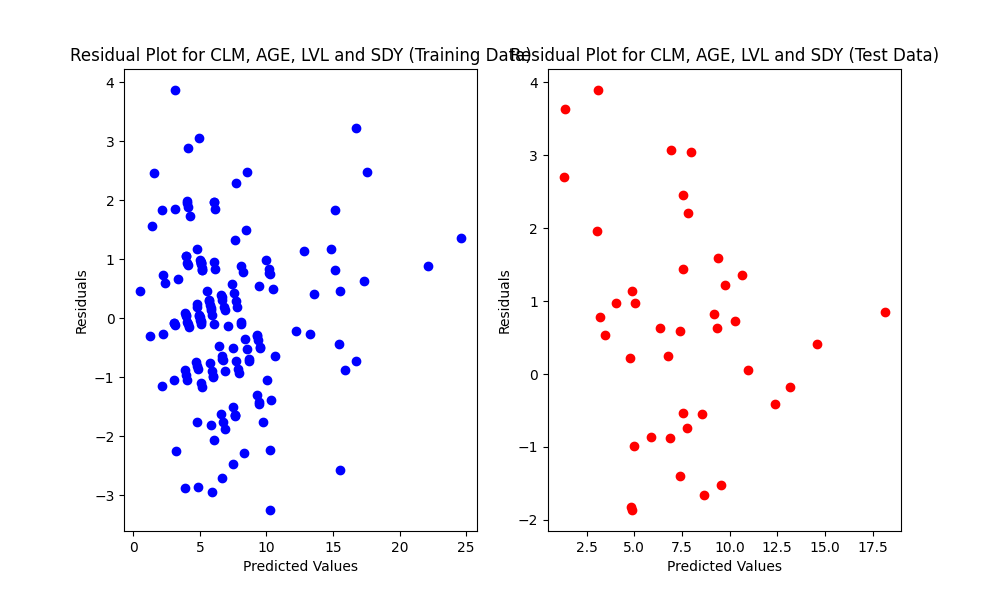
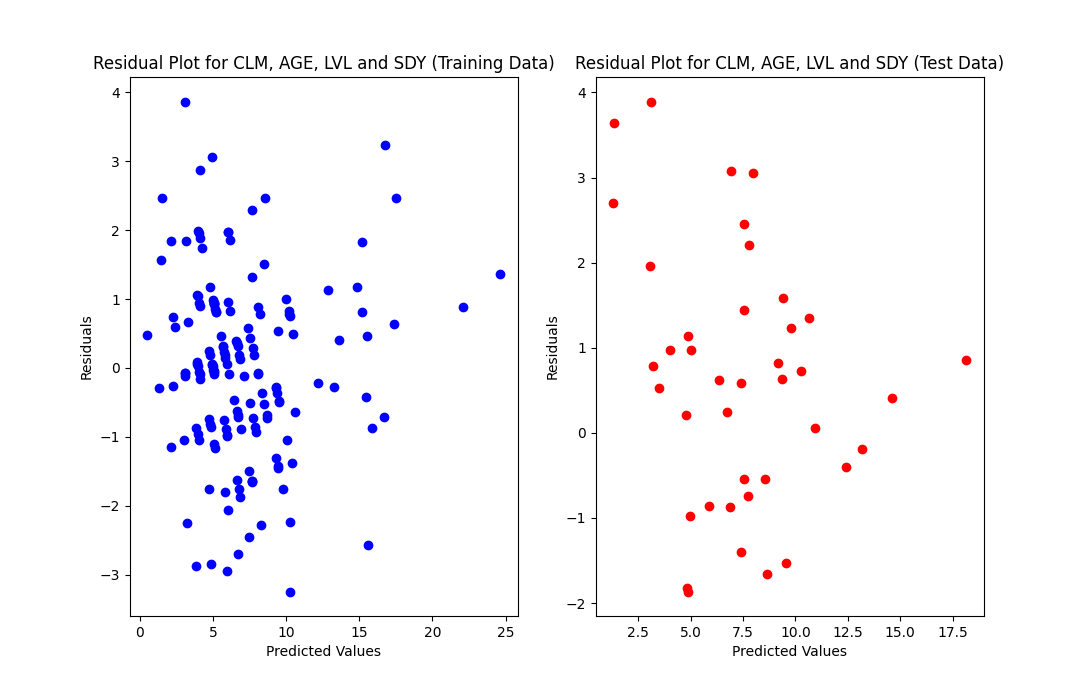
Fix plot labels for iteration 5

diff --git a/Multivariate Regression/multivariate_all.py b/Multivariate Regression/multivariate_all.py
@@ -38,7 +38,7 @@ residuals_train = y_train - y_train_pred
 residuals_test = y_test - y_test_pred
 
 # Plot residuals for training data
-plt.figure(figsize=(10, 6))
+plt.figure(figsize=(11, 7))
 plt.subplot(1, 2, 1)
 plt.scatter(y_train_pred, residuals_train, color='blue')
 plt.xlabel('Predicted Values')
